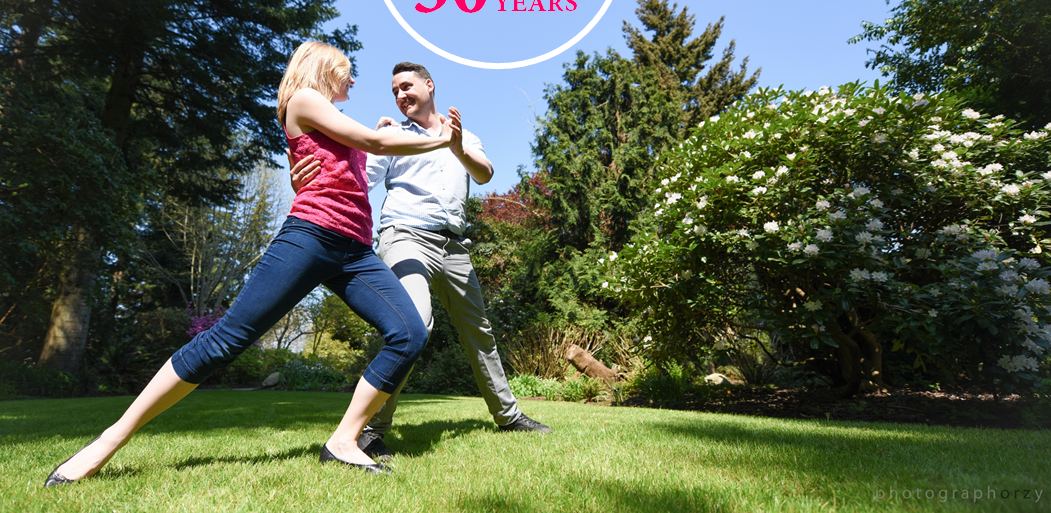
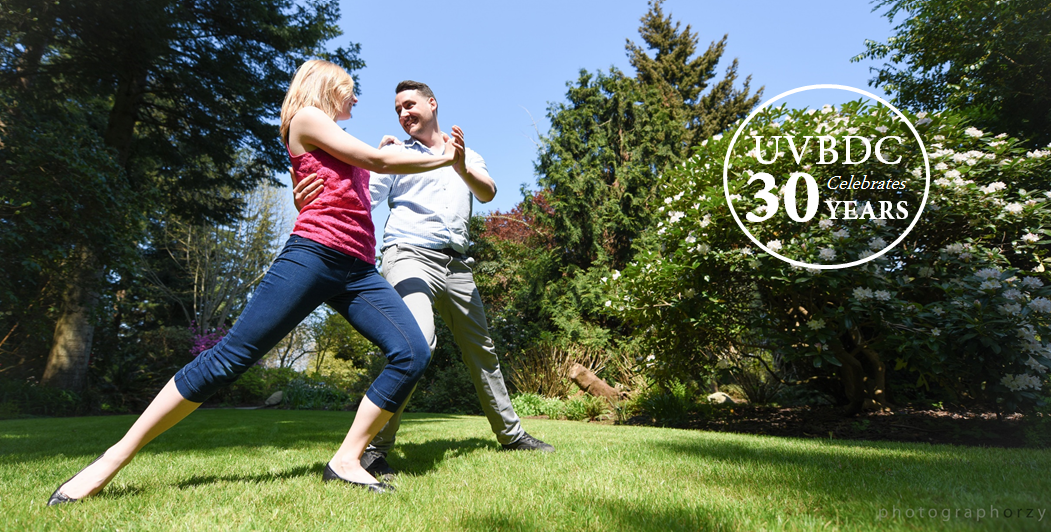
changed it back to pink

diff --git a/index.html b/index.html
@@ -167,7 +167,7 @@ Licence URI: http://www.os-templates.com/template-terms
               image: 'images/30k.png',
               title: '<span class="heading">Welcome Back!</span> Fall 2015 classes will resume on September 19th and 20th. For our NEW schedule  <a href="classes.html#fall 2015"> Click Here </a>'
           }, {
-              image: 'images/bam.jpg',
+              image: 'images/pink.png',
               title: '<span class="heading"> Clubs Days </span> Join us at Clubs days for more club information and to dance on the floor outside the SUB! <a href="events.html#">click here</a>' 
           }]
         });
